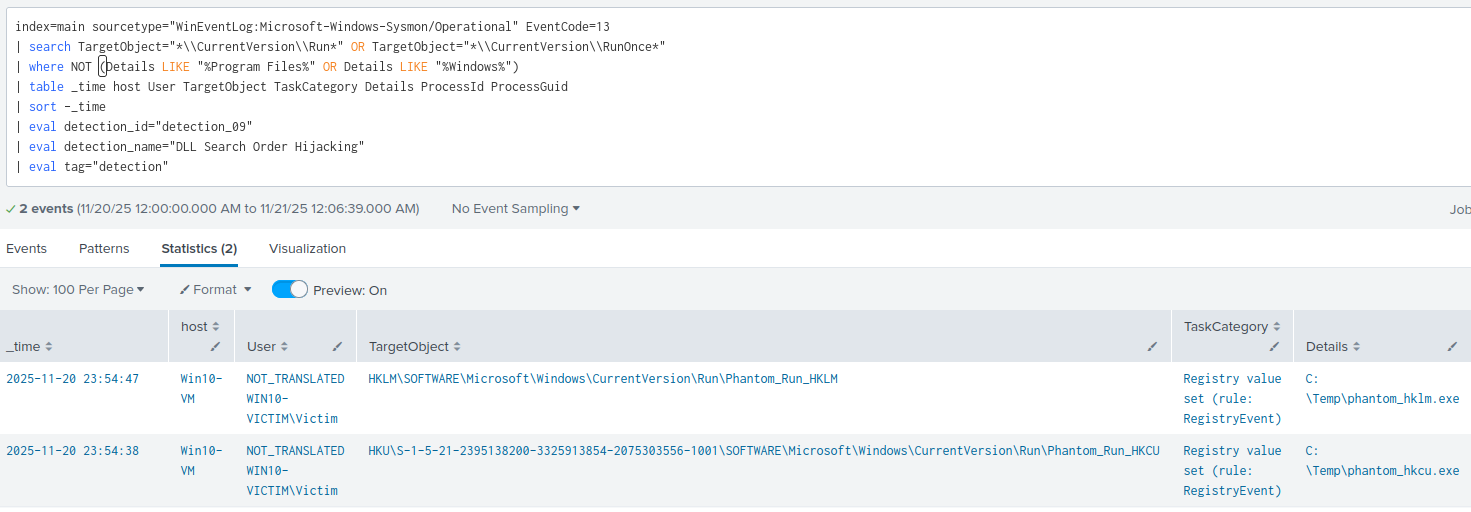
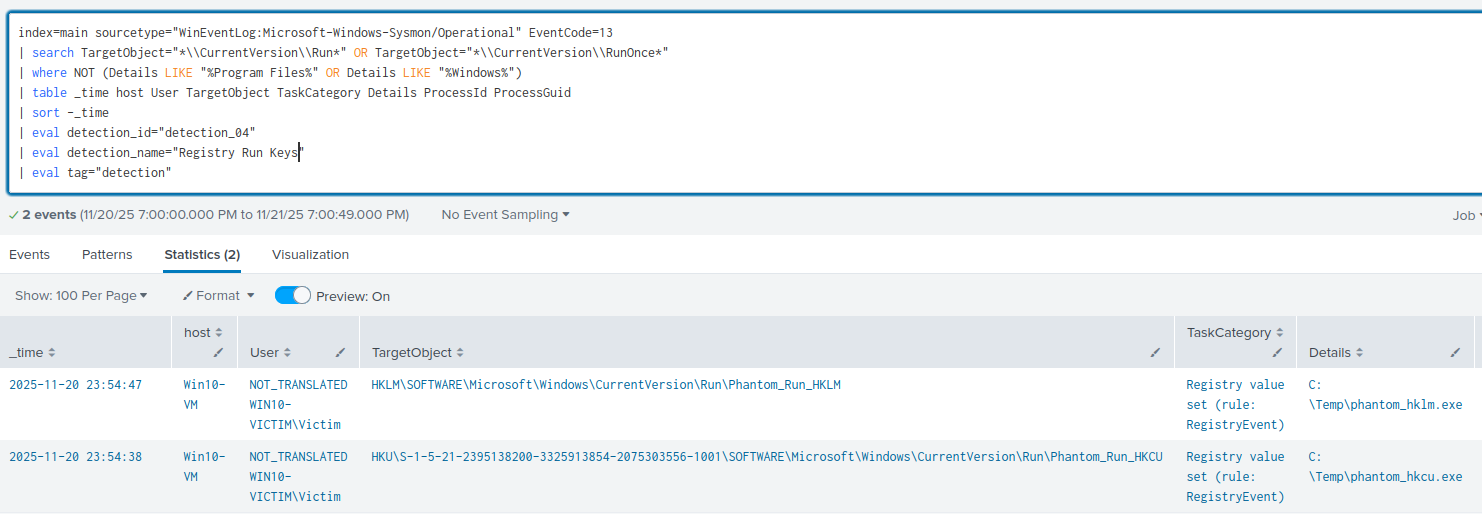
Detection 05 Validated

diff --git a/detections/detection_05_ads_execution.md b/detections/detection_05_ads_execution.md
@@ -1,6 +1,6 @@
 ### Detection 05: Alternate Data Stream Execution
 
-### Puspose 
+### Purpose 
 
 Detect the abuse of NTFS Alternate Data Streams (ADS) to hide and/or execute malicious content
 
@@ -9,7 +9,8 @@ Detect the abuse of NTFS Alternate Data Streams (ADS) to hide and/or execute mal
 ### ATT&CK Mapping
 
 - T1564.004 - Hide Artifacts: NTFS File Attributes
-- T1059 - Command and Scripting Interpreter
+
+---
 
 ### Data Sources
 
@@ -17,26 +18,37 @@ Detect the abuse of NTFS Alternate Data Streams (ADS) to hide and/or execute mal
 |--------|---------|
 | Sysmon/Operational | Event ID 15 & Event ID 1 |
 
+---
+
 ### Test Case
 
 Create an alternate data strean tied to a normal text file which contains a harmless powershell command (calc.exe) then execute it. Verify it shows in Splunk
 
-Expected Result: calc.exe opens on execution, and Splunk detects the ADS creation + execution
+Expected Result: calc.exe opens in background session on execution, and Splunk detects the ADS creation + execution
 
 1. Create a dummy file in cmd.exe
 ```cmd
 echo dummy > C:\Users\Public\normal.txt
 ```
+![Create a dummy file](screenshots/d05_img1.png)
+
 2. Add an alternate data stream to the file with the contents of "Start-Process calc"
 ```cmd
 echo Start-Process calc > C:\Users\Public\normal.txt:hidden.ps1
 ```
+
+![Add alternate data stream to file](screenshots/d05_img2.png)
+
 3. Execute the file with powershell, still in cmd.
 ```cmd
 powershell -WindowStyle Hidden -ExecutionPolicy Bypass - Command "Get-Content -Path C:\Users\Public\normal.txt -Stream hidden.ps1 | Invoke-Expression"
 ```
 
 4. Run the SPL Queries to verify Splunk caught the ADS creation + execution
+
+![Detect ads creation](screenshots/d05_img3.png)
+
+![Detect ads execution](screenshots/d05_img4.png)
 
 ---
 
@@ -47,15 +59,20 @@ powershell -WindowStyle Hidden -ExecutionPolicy Bypass - Command "Get-Content -P
 ```spl
 index=main sourcetype="WinEventLog:Microsoft-Windows-Sysmon/Operational" EventCode=15
 | table _time, host, Image, TargetFilename, Contents
+| eval detection_id="detection_05"
+| eval detection_name="Alternate Data Stream"
+| eval tag="detection"
 ```
 
 **Production Rule (Execution from ADS)**
 
 ```spl
 index=main sourcetype="WinEventLog:Microsoft-Windows-Sysmon/Operational" EventCode=1
-(CommandLine="*powershell* -e*") OR (CommandLine="*powershell* -exec*") OR (CommandLine="*cmd* -e*") OR (CommandLine="*cmd* -exec*") 
-| where match(CommandLine, ":[a-zA-Z0-9]+")
+(CommandLine="*powershell* -e*") OR (CommandLine="*powershell* -exec*") OR (CommandLine="*cmd* -e*") OR (CommandLine="*cmd* -exec*")
 | table _time, user, host, Image, ParentImage, CommandLine
+| eval detection_id="detection_05"
+| eval detection_name="Alternate Data Stream"
+| eval tag="detection"
 ```
 
 ---
@@ -64,13 +81,20 @@ index=main sourcetype="WinEventLog:Microsoft-Windows-Sysmon/Operational" EventCo
 - Alternate Data Streams are rare in legitmate environments, investigate thuroughly
 - Our execution from an ADS rule only detects powershell execs, other exec paths can be added such as cmd.exe
 
+---
 
-### Flase Positives and Tuning
+### Flase Positives
 - Testers or forensic analysts may set up alternate data streams as part of a legit workflow
-- Some installers may write an ads in %ProgramData%. Whitelist these installers if trusted
-- Can limit detections to only risky parent processes i.e powershel/cmd
+- Some installers may write an ads in %ProgramData%.
 
-### Playbook
+### Tuning
+- Work with testers/analysts to whitelist legitmate streams
+- Whitelist trusted installers that write ads'
+- Refine rule by analysing parent processes
+
+---
+
+### Quick Playbook
 
 1. Pull the ParentImage to see where the stream creation happened
 2. Use ProcessGuid to try link to a ProcessCreate event
@@ -84,7 +108,9 @@ index=main sourcetype="WinEventLog:Microsoft-Windows-Sysmon/Operational" EventCo
 - Lateral movement detected
 - An admin/system user is unexpectedly running these commands.
 
-Status:
-- Test Verified
-- SPL Detection Verified
-- Ready for Production
+---
+
+### Status:
+- ✅ Test case validated
+- ✅ Test Evidence captured
+- ✅ Production ready

diff --git a/detections/detection_04_registry_run.md b/detections/detection_04_registry_run.md
@@ -71,8 +71,8 @@ index=main sourcetype="WinEventLog:Microsoft-Windows-Sysmon/Operational" EventCo
 | where NOT (Details LIKE "%Program Files%" OR Details LIKE "%Windows%")
 | table _time host User TargetObject TaskCategory Details ProcessId ProcessGuid
 | sort -_time
-| eval detection_id="detection_09"
-| eval detection_name="DLL Search Order Hijacking"
+| eval detection_id="detection_04"
+| eval detection_name="Registry Run Keys"
 | eval tag="detection"
 ```
 
